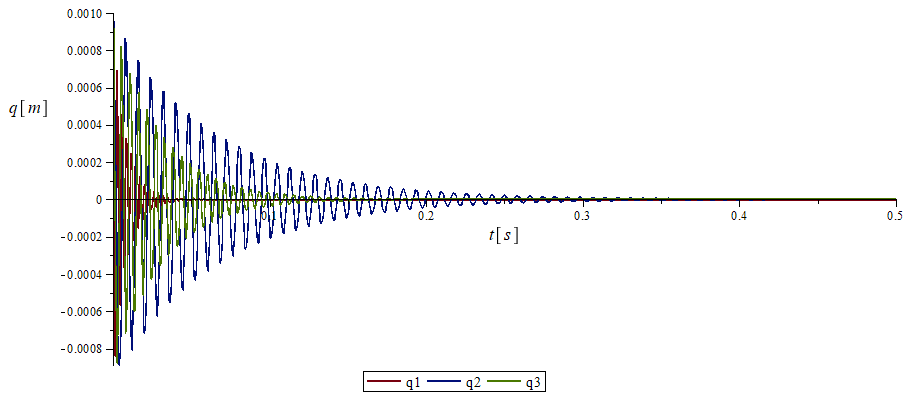
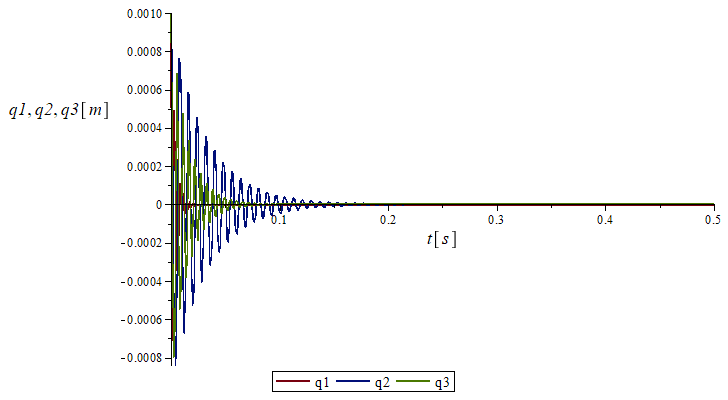
revisao dos valores e calc do amortecimento

diff --git a/chap03.tex b/chap03.tex
@@ -830,13 +830,12 @@ equações~\ref{eq::kde5i} a \ref{eq::kde5f} descrevem o kde:
 \begin{align}
 	u_{1}(t) &= \frac{\mathrm{d} }{\mathrm{d} t}q_{1}(t) \label{eq::kde5i} \\
 	u_{2}(t) &= \frac{\mathrm{d} }{\mathrm{d} t}q_{2}(t) \\
-	u_{3}(t) &= \frac{\mathrm{d} }{\mathrm{d} t}q_{3}(t)
-\end{align}
-%
-\begin{align}	
+	u_{3}(t) &= \frac{\mathrm{d} }{\mathrm{d} t}q_{3}(t) \\
 	u_{4}(t) &= \frac{\mathrm{d} }{\mathrm{d} t}q_{4}(t) \\
 	u_{5}(t) &= \frac{\mathrm{d} }{\mathrm{d} t}q_{5}(t) \label{eq::kde5f}	
 \end{align}
+%
+
 Somando-se esse sistema às equações de movimento e atribuindo à variável
 \texttt{eq\_mov}, no Sophia-Maple:
 
@@ -2186,8 +2185,8 @@ amortecimento e condição incial do sistema:
 %
 \begin{itemize}
   \item{\textbf{Rigidez:} igual a da base de testes}
-  \item{\textbf{Amortecimento:} $\alpha = 0;~ \beta = 10^{-5}$}
-  \item{\textbf{Condição inicial:} $q1(0) = q2(0) = q3(0) = 0,1~mm$, $q4(0) =
+  \item{\textbf{Amortecimento:} $\alpha = 0;~ \beta = 10^{-4}$}
+  \item{\textbf{Condição inicial:} $q1(0) = q2(0) = q3(0) =1~mm$, $q4(0) =
   0,001~rad$, $q5(0) = q6(0) = 0$}
 \end{itemize}
 %
@@ -2200,7 +2199,7 @@ base, dada a condição incial fora da sua configuração de equilíbrio.
 
 \begin{figure}[h]
     \centering
-    \begin{subfigure}[b]{0.8\textwidth}
+    \begin{subfigure}[b]{0.85\textwidth}
         \includegraphics[width=\textwidth]{figs/q123_base_exemplo}
         \caption{Resultado MBS da base: translações q1, q2, q3}
         \label{fig::q123_base_exemplo}
@@ -2208,7 +2207,7 @@ base, dada a condição incial fora da sua configuração de equilíbrio.
     \quad %add desired spacing between images, e. g. ~, \quad, \qquad, \hfill
     % etc.
       %(or a blank line to force the subfigure onto a new line)
-    \begin{subfigure}[b]{0.8\textwidth}
+    \begin{subfigure}[b]{0.85\textwidth}
         \includegraphics[width=\textwidth]{figs/q456_base_exemplo}
         \caption{Resultado MBS da base: rotações q4, q5, q6}
         \label{fig::q456_base_exemplo}
@@ -2275,6 +2274,13 @@ ponto está para o modelo experimental assim como $\mathbf{p}^M$ está para o
 modelo teórico da base. Da mesma forma, o referencial local da placa é
 equivalente ao referencial SC-R3 do modelo teórico.
 
+\begin{figure}[h]
+	\centering 
+ 	\includegraphics[width=0.95\textwidth]{figs/acelerometos-base}
+ 	\caption{Dsitribuição dos acelerômetros na base}
+ 	\label{fig::acelerometos-base}
+\end{figure}
+
 \subsubsection{Acelerômetros}
 
 São utilizados no total 7 acelerômetros uni-axiais piezoelétricos, fixados à
@@ -2282,13 +2288,6 @@ placa por bases magnéticas. A Figura~\ref{fig::acelerometos-base} apresenta a
 distribuição dos acelerômetros na estrutura, onde são representados pelos
 pequenos cilindros indicados, cuja direção de medição é a mesma do seu eixo, e o
 sentido positivo sempre para fora da placa.
-
-\begin{figure}[h]
-	\centering 
- 	\includegraphics[width=0.95\textwidth]{figs/acelerometos-base}
- 	\caption{Dsitribuição dos acelerômetros na base}
- 	\label{fig::acelerometos-base}
-\end{figure}
 
 Assim como foi assumido no modelo para AEF da base, a placa de fixação do robô é
 muito rígida em relação à estrutura de perfis de alumínio. Ou seja, as
@@ -2402,9 +2401,6 @@ sensores, a base e os módulos de aquisição, assim como as conexões entre ele
  	\caption{Diagrama da bancada experimental}
  	\label{fig::diagrama_bancada}
 \end{figure}
-
-\todo[inline]{Incluir fontes das figuras dos sensores}
-
 
 
 \subsection{Aquisição e tratamento dos dados}
@@ -2595,7 +2591,7 @@ analisada a faixa de $0$ a $500~Hz$. Em seguida, identifica-se os modos ou picos
 nesta faixa. Ainda há opção da contagem automática, se fornecido um valor
 mínimo de mangnitude para caracterizar o modo.
 
-\missingfigure{Inlcluir imagem da contagem de picos}
+%\missingfigure{Inlcluir imagem da contagem de picos}
 
 Com isso o programa realiza uma estimativa dos coeficientes de um polinômio do
 modelo FRF analítico, pelo ajuste de curva ao modelo experimental, apresentado
@@ -2662,50 +2658,37 @@ acordo com a expressão:
 
 Como demonstrado na seção~\ref{sec::amortecimento}, os parâmetros $\alpha$
 e $\beta$ se baseiam no resultado do amortecimento modal ao longo de uma
-faixa de frequência de interesse. Repetindo aqui a equação~\ref{eq::xir}:
+faixa de frequência de interesse. Aplicando-se a equação~\ref{eq::brian} aos
+resultados experimentais da Tabela~\ref{tab::resultado_modal}, tem-se:
 %
-\begin{equation*}
-	\xi_r = \frac{1}{2}\left(\frac{\alpha}{\omega_r} + \beta \omega_r\right )
-\end{equation*}
-%
-Onde $\xi_r$ é o amortecimento modal na frequência $ \omega_r$. Esses valores
-são os obtidos experimentalmente, e estão na
-Tabela~\ref{tab::resultado_modal}.
-
-
-Dos 6 modos de ressonância, tem-se o seguinte gráfico, na
-Figura~\ref{fig::ajuste_rayleigh}, do amortecimento em função da frequência, :
-
-\begin{figure}[h]
-	\centering 
- 	\includegraphics[width=0.50\textwidth]{figs/ajuste_rayleigh}
- 	\caption[Ajuste de curva do amortecimento experimental]{Ajuste de curva do
- 	amortecimento experimental. Linha cheia: ajuste de curva; ponto: resultados
- 	do amortecimento experimental}
- 	\label{fig::ajuste_rayleigh}
-\end{figure}
-
-%\missingfigure{Gráfico do amortecimento vs frequência}
-
-Fazendo o ajuste do gráfico, em termos da equação~\ref{eq::xir},
-obtém-se:
-%
-\begin{equation}
-	\xi = \frac{7.956372}{\omega} + 0.011667 ~\omega
+\begin{equation} \label{eq::resmatrix_alpha_beta}
+\begin{bmatrix}
+	\alpha \\
+	\beta
+\end{bmatrix}
+= 2
+\begin{pmatrix}
+	6 & 500087 \\ 
+	500087 & 67111 \times 10^9
+\end{pmatrix}^{-1}
+\begin{bmatrix}
+	17.407 \\ 
+	2.32915 \times 10^6
+\end{bmatrix}
 \end{equation}
-%
-Logo, pode-se concluir que:
+
+O resultado da equação~\ref{eq::resmatrix_alpha_beta} fornece:
 %
 \begin{align}
-	\frac{\alpha}{2} &= 7.9564 \Rightarrow  \alpha = 15.9127 \\
-	\frac{\beta}{2} &= 0.0116 \Rightarrow  \beta = 0.0233
+	\alpha &= 0,04489 \\
+	\beta &= 0.00006907
 \end{align}
 %
 
 E finalmente, a matriz de amortecimento resultante, obtida experimentalmente é:
 %
 \begin{equation}
-	C = 15.9127~M + 0.0233~K
+	C = 4,489 \times 10^-2 ~M + 6,907 \times 10^{-5}~K
 \end{equation}
 %
 
@@ -2995,32 +2978,35 @@ Tal que os valores são expressos em $kN/m$ e $kNm/rad$.
 O resultado experimental forneceu os parâmetros:
 %
 \begin{align*}
-	\alpha &= 15.9127 \\
-	\beta &= 0.0233
-\end{align*} \todo{Corrigir valores}
+	\alpha &= 0,04489 \\
+	\beta &= 0.00006907
+\end{align*}
 %
 Que calcula a seguinte matriz de amortecimento:
 %
 \begin{equation*}
 	C =
 \begin{pmatrix}
-11500	&	0		&	0		&	0		&	0		&	0		\\
-0		&	6326	&	0		&	0		&	0		&	-1399	\\
-0		&	0		&	10579	&	0		&	371	 	&	0		\\
-0		&	0		&	0		&	2516 	&	0		&	0		\\
-0		&	0		&	370		&	0		&	1746 	& 	0		\\
-0		&	-1399	&	0		&	0		&	0		&	1518
+65042	&	0		&	0		&	0		&	0		&	0		\\
+0		&	9024	&	0		&	0		&	0		&	-1726	\\
+0		&	0		&	18115	&	0		&	397	 	&	0		\\
+0		&	0		&	0		&	3939 	&	0		&	0		\\
+0		&	0		&	397		&	0		&	8260 	& 	0		\\
+0		&	-1726	&	0		&	0		&	0		&	6744
 \end{pmatrix}
 \end{equation*}
 %
+Valores em $kg/s$ e $kg~m/s$. 
+
 Os resultados das tarefas para esta base são apresentados na
 seção~\ref{sec::res_testes}.
 
 
 \subsection{Base modular PRP}
 
-Esta base consiste em um trilho primário e um trilho secundário sobreposto, que
-será utilizada para posicionar o manipulador dentro do ambiente de uma turbina.
+Esta base consiste em um trilho primário e, sobreposto a este, um trilho
+secundário, utilizados para posicionar o manipulador dentro do ambiente de uma
+turbina.
 Uma plataforma de rotação permite que o trilho secundário forme qualquer ângulo
 em relação ao primário. Sobre o trilho secundário corre a placa de fixação do
 robô. Portanto, esta base é classificada como Prismática-Rotacional-Prismática
@@ -3098,24 +3084,23 @@ Valores em $kN/m$ e $kNm/rad$.
 
 Para a matriz de amortecimento, seria necessário o ensaio experimental da
 estrutura. Como ainda não existe o modelo físico desta vesão da base, os valores
-de $\alpha$ e $\beta$ serão estimados. Uma estimativa razoável, devido à
-semelhança de materiais e peças, é utilizar os mesmos valores obtidos para a
-base de testes.
-Portanto, a matriz de amortecimento torna-se:
+de $\alpha$ e $\beta$ serão estimados. Pode-se considerar uma estimativa
+razoável, devido à semelhança de materiais e peças, $\alpha = 0$ e $\beta = 5
+\times 10^{-5}$. Portanto, a matriz de amortecimento torna-se:
 %
 \begin{equation}
 	C = 
 \begin{pmatrix}
-2150	&	-29	&	-179	&	-8	&	912	&	-4 \\
--29	&	464	&	5	&	-389	&	-12	&	-41 \\
--179	&	5	&	486	&	70	&	-35	&	1 \\
--8	&	-389	&	70	&	446	&	3	&	36 \\
-912	&	-12	&	-35	&	3	&	468	&	-2 \\
--4	&	-41	&	1	&	36	&	-2	&	293 \\
+2136	&	-29		&	-179	&	-8		&	912		&	-4 	\\
+-29		&	450 	&	5		&	-389	&	-12		&	-41 \\
+-179	&	5		&	471		&	70		&	-35		&	1 	\\
+-8		&	-389	&	70		&	446		&	3		&	36	\\
+912		&	-12		&	-35		&	3		&	468		&	-2	\\
+-4		&	-41		&	1		&	36		&	-2		&	293	\\
 \end{pmatrix}
 \end{equation}
 %
-Valores em $kg/s$ e $kg~m/s$. \todo{Corrigir valores}
+Valores em $kg/s$ e $kg~m/s$.
 
 Os resultados das tarefas simuladas nesta base são apresentados na
 seção~\ref{sec::res_prp}.
@@ -3247,14 +3232,8 @@ Valores da matriz em $kN/m$ e $kNm/rad$.
 Novamente, não é disponível esta versão para ensaio experimental, portanto os
 parâmetros $\alpha$ e $\beta$ para formar a matriz de amortecimento são
 estimados.
-Sejam os valores:
-%
-\begin{align*}
-	\alpha &= 0 \\
-	\beta &= 0.00005
-\end{align*}
-%
-A matriz de amortecimento será:
+Sejam os valores $\alpha = 0$ e $\beta = 5 \times 10^{-5}$, a matriz de
+amortecimento será:
 %
 \begin{equation} \label{eq::res_amortecimento_prpp}
 	C = 

diff --git a/chap02.tex b/chap02.tex
@@ -1188,9 +1188,30 @@ Onde $\xi_r$ e $\omega_r$ são respectivamente o amortecimento modal e a
 frequência natural do r-ésimo modo de vibração. Artigos de
 \citet{chen1996estimation}, \citet{adhikari2004rayleigh} e
 \citet{schwarz2013proportional} apresentam metodologias para ajustar os
-coeficientes de Rayleigh aos resultados experimentais de análise modal, o que
-será muito útil para formar a matriz de amortecimento do sistema MBS da base.
-
+coeficientes de Rayleigh aos resultados experimentais de análise modal. Pelo
+desenvolvimento de Schwarz, utilizando-se o método dos erros mínimos quadrados,
+obtém-se a seguinte equação para os coeficientes de Rayleigh:
+%
+\begin{equation} \label{eq::brian}
+	\begin{bmatrix}
+	\alpha \\
+	\beta
+	\end{bmatrix}
+= 2
+	\begin{pmatrix}
+	N & {\sum\limits_{i=1}^{N}\Omega_i^{2}} \\ 
+	{\sum\limits_{i=1}^{N}\Omega_i^{2}} &
+	{\sum\limits_{i=1}^{N}\left(\Omega_i^{2}\right)^2}
+	\end{pmatrix}^{-1}
+	\begin{bmatrix}
+	\sum\limits_{i=1}^{N}\xi_i \\ 
+	\sum\limits_{i=1}^{N}\xi_i \Omega_i^2
+	\end{bmatrix}
+\end{equation}
+%
+Onde $\Omega_i$ são as frequências de ressonância e $\xi_i$ os amortecimentos
+modais obtidos experimentalmente para o i-ésimo modo; e $N$ representa o número
+de ressonâncias na faixa medida.
 
 \subsection{Análise modal experimental} \label{sec::modal_analysis}
 
@@ -1802,12 +1823,19 @@ suportar com boa margem as tensões a que seria submetida, os deslocamentos
 devido à baixa rigidez, prejudicariam a precisão requerida da tarefa de
 revestimento.
 
-\begin{figure}[h]
+\begin{figure}[t]
 	\centering 
  	\includegraphics[width=0.65\textwidth]{figs/base_telesc_turbina}
  	\caption{Base telescópica PRPP para manutenção de revestimento
  	\textit{in-situ}}
  	\label{fig::base_telesc_turbina}
+\end{figure}
+
+\begin{figure}[h]
+	\centering 
+ 	\includegraphics[width=0.70\textwidth]{figs/prp_turbina}
+ 	\caption{Base modular PRP para manutenção de revestimento \textit{in-situ}}
+ 	\label{fig::prp_turbina}
 \end{figure}
 
 O conceito PRP utiliza o acesso da escotilha inferior para transportar uma base
@@ -1821,13 +1849,6 @@ desmontagens e transportes manuais.Como resultado, obtém-se uma estrutura leve 
 versátil, mas não superdimensionada para rigidez. De toda forma, uma vantagem
 deste conceito encontra-se na possibilidade adicionar suportes e
 contraventamentos à estrutura, o que permite aumentar a sua rigidez.
-
-\begin{figure}[h]
-	\centering 
- 	\includegraphics[width=0.70\textwidth]{figs/prp_turbina}
- 	\caption{Base modular PRP para manutenção de revestimento \textit{in-situ}}
- 	\label{fig::prp_turbina}
-\end{figure}
 
 A presente pesquisa trata estes conceitos e a tarefa de revestimento do projeto
 EMMA como os estudos de caso para demonstração da aplicação do método proposto,
